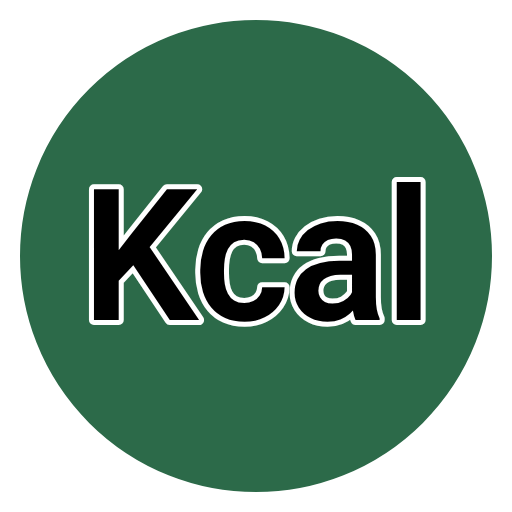
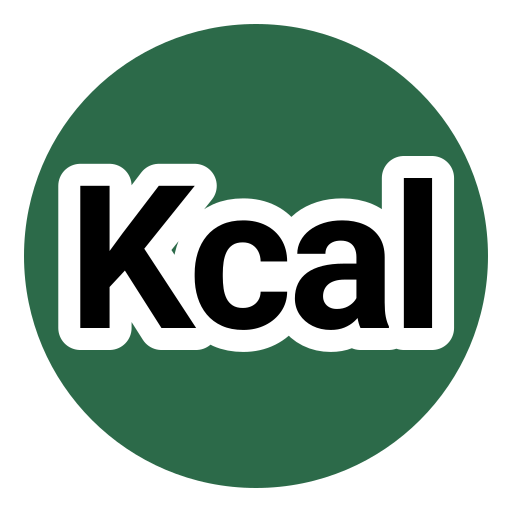
Icona Kcal ridisegnata: scritta più grande, bordi bianchi più spessi
- bordo bianco intorno al cerchio, stesso spessore del bordo delle lettere
- versione maskable pensata per il ritaglio a cerchio di Android
- sw.js: nuova cache per scaricare le icone aggiornate

Claude-Session: https://claude.ai/code/session_01NQde6mZoUuyFecDhpXk91C

diff --git a/sw.js b/sw.js
@@ -3,7 +3,7 @@
    Regola: prima la rete, così ogni aggiornamento caricato su GitHub arriva subito;
    la copia salvata si usa solo se la rete non c'è.
    Le chiamate a Gemini, Google e Drive non passano mai di qui (altri domini). */
-const CACHE = 'kalraf28-v40';
+const CACHE = 'kalraf28-v40b';
 const SHELL = ['./', './index.html', './manifest.webmanifest', './icone/icona-kcal-192.png', './icone/icona-kcal-512.png', './icone/icona-kcal.svg'];
 
 self.addEventListener('install', e => {
